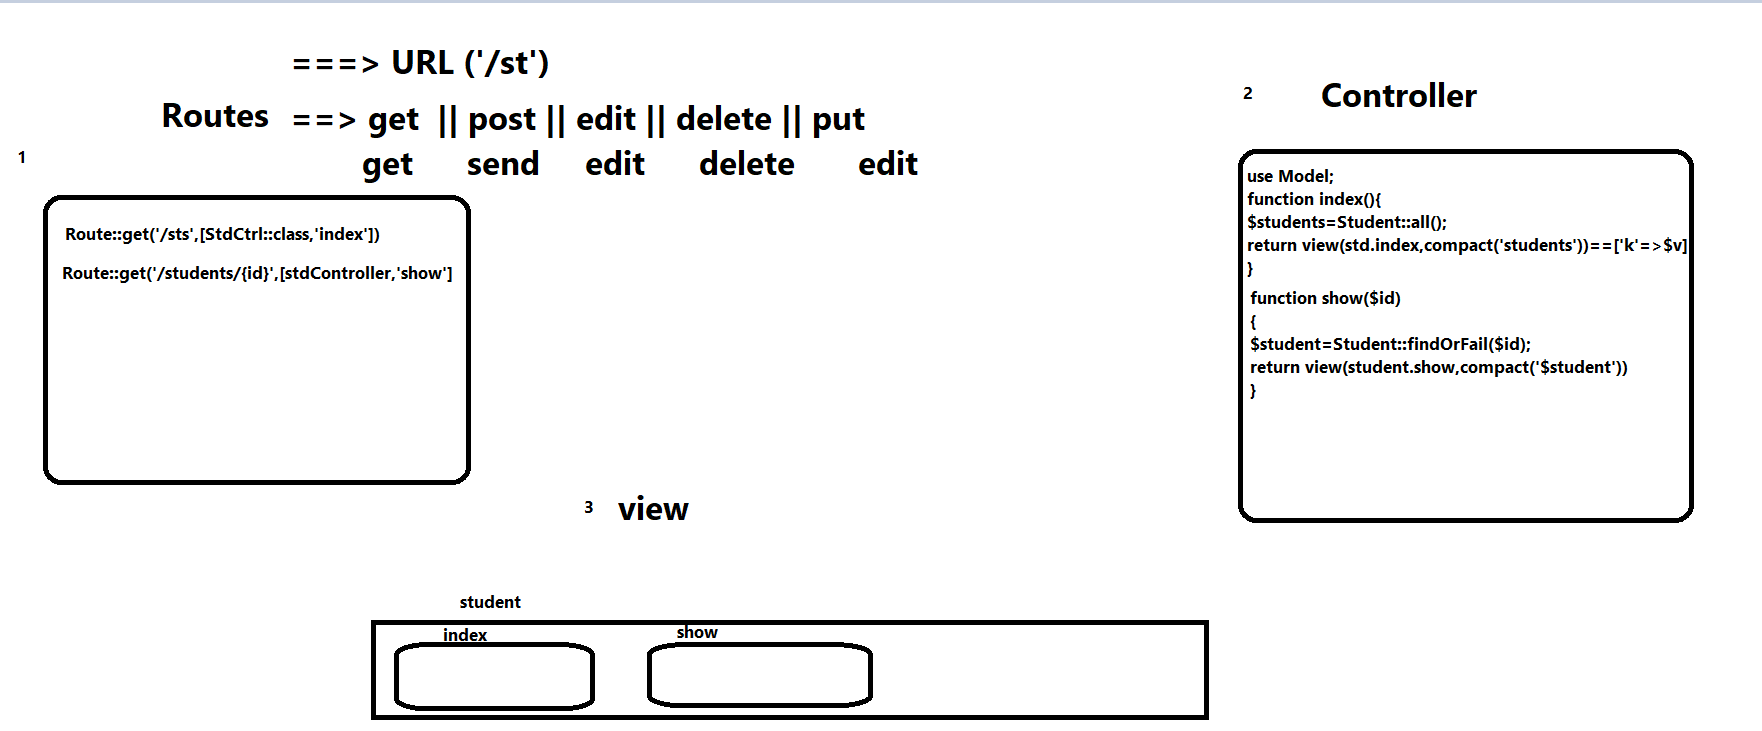
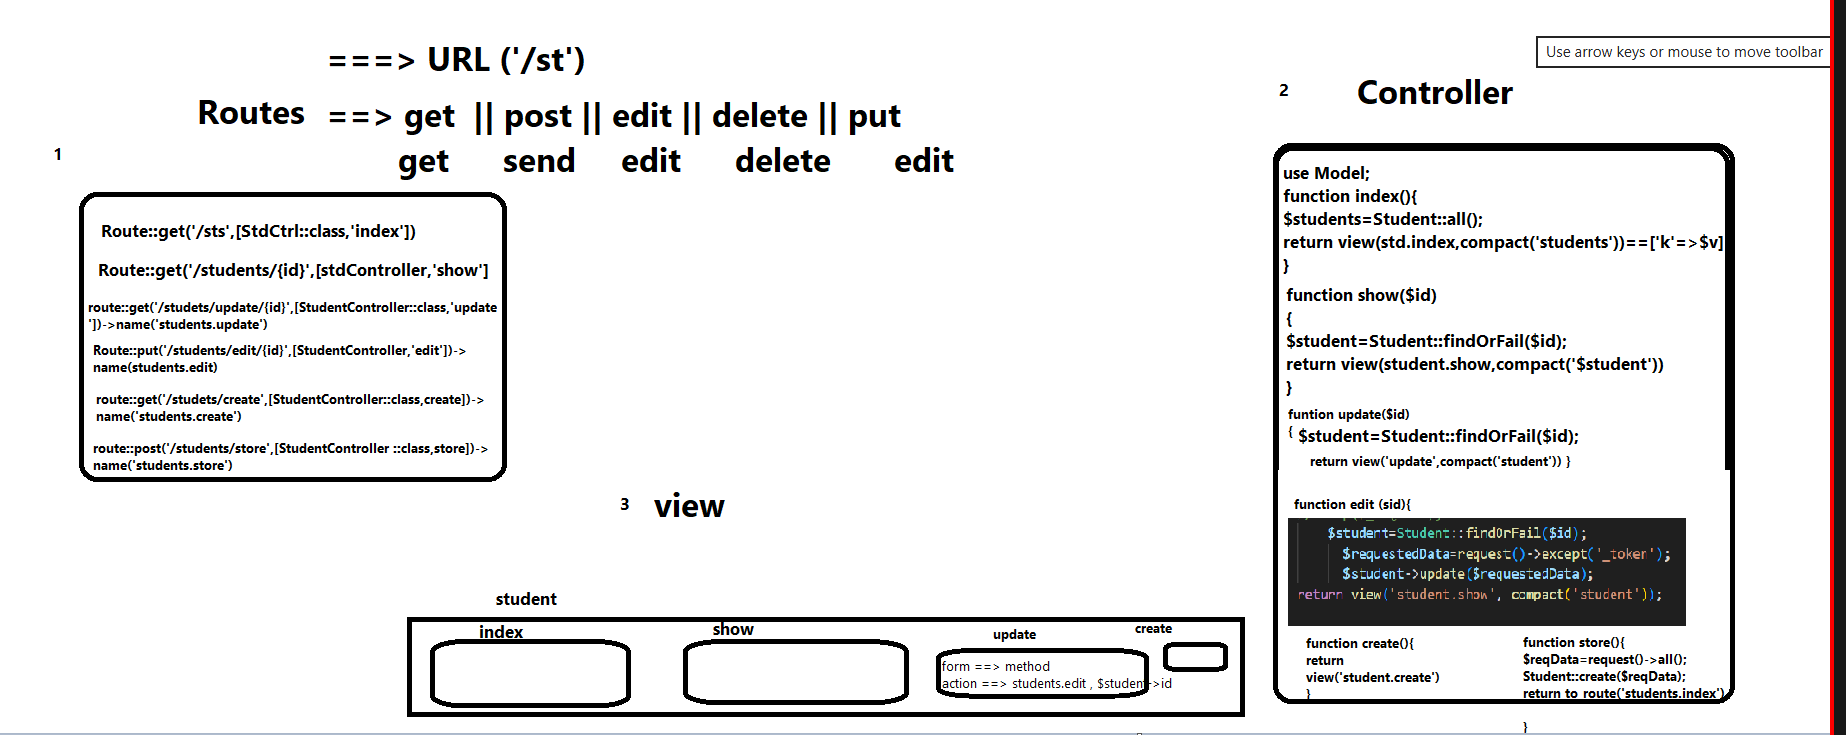
feat:cruds part 2

diff --git a/laravel/demo/resources/views/student/update.blade.php b/laravel/demo/resources/views/student/update.blade.php
@@ -1,0 +1,40 @@
+<!DOCTYPE html>
+<html lang="en">
+<head>
+    <meta charset="UTF-8">
+    <meta name="viewport" content="width=device-width, initial-scale=1.0">
+    <meta http-equiv="X-UA-Compatible" content="ie=edge">
+      {{-- bootstrap --}}
+    <link href="https://cdn.jsdelivr.net/npm/bootstrap@5.0.2/dist/css/bootstrap.min.css" rel="stylesheet"
+        integrity="sha384-EVSTQN3/azprG1Anm3QDgpJLIm9Nao0Yz1ztcQTwFspd3yD65VohhpuuCOmLASjC" crossorigin="anonymous">
+    <title>create Student</title>
+</head>
+<body>
+    {{-- @dump($student) --}}
+<h1 class="text-info text-center m-5 text-capitalize">Update <span class="text-danger">{{ $student->name }} </span>Profile </h1>
+
+<form method="POST" action="{{ route('students.edit',$student->id) }}" class="rounded w-75 mx-auto my-5 border p-5" >
+ @csrf
+ @method('put')
+    <div class="mb-3">
+    <label for="exampleInputName1" class="form-label">Name </label>
+    <input  value="{{ $student->name }}" name="name" type="text" class="form-control" id="exampleInputName1" >
+  </div>
+  <div class="mb-3">
+    <label for="exampleInputEmail1" class="form-label">Email </label>
+    <input  value="{{ $student->email }}"  name="email" type="email" class="form-control" id="exampleInputEmail1" aria-describedby="emailHelp">
+  </div>
+  <div class="mb-3">
+    <label for="exampleInputGender1" class="form-label">Gender </label>
+    <input value="{{ $student->gender }}"   name="gender" type="text" class="form-control" id="exampleInputGender1" >
+  </div>
+
+
+  <button type="submit" class="btn btn-primary">Edit</button>
+</form>
+
+    <script src="https://cdn.jsdelivr.net/npm/bootstrap@5.0.2/dist/js/bootstrap.bundle.min.js"
+        integrity="sha384-MrcW6ZMFYlzcLA8Nl+NtUVF0sA7MsXsP1UyJoMp4YLEuNSfAP+JcXn/tWtIaxVXM" crossorigin="anonymous">
+    </script>
+</body>
+</html>

diff --git a/laravel/demo/resources/views/student/create.blade.php b/laravel/demo/resources/views/student/create.blade.php
@@ -1,0 +1,39 @@
+<!DOCTYPE html>
+<html lang="en">
+<head>
+    <meta charset="UTF-8">
+    <meta name="viewport" content="width=device-width, initial-scale=1.0">
+    <meta http-equiv="X-UA-Compatible" content="ie=edge">
+      {{-- bootstrap --}}
+    <link href="https://cdn.jsdelivr.net/npm/bootstrap@5.0.2/dist/css/bootstrap.min.css" rel="stylesheet"
+        integrity="sha384-EVSTQN3/azprG1Anm3QDgpJLIm9Nao0Yz1ztcQTwFspd3yD65VohhpuuCOmLASjC" crossorigin="anonymous">
+    <title>create Student</title>
+</head>
+<body>
+<h1 class="text-info text-center m-5">Create New Student </h1>
+
+<form method="POST" action="{{ route('students.store') }}" class="rounded w-75 mx-auto my-5 border p-5" >
+ @csrf
+    <div class="mb-3">
+    <label for="exampleInputName1" class="form-label">Name </label>
+    <input  name="name" type="text" class="form-control" id="exampleInputName1" >
+  </div>
+  <div class="mb-3">
+    <label for="exampleInputEmail1" class="form-label">Email </label>
+    <input  name="email" type="email" class="form-control" id="exampleInputEmail1" aria-describedby="emailHelp">
+    <div id="emailHelp" class="form-text">We'll never share your email with anyone else.</div>
+  </div>
+  <div class="mb-3">
+    <label for="exampleInputGender1" class="form-label">Gender </label>
+    <input  name="gender" type="text" class="form-control" id="exampleInputGender1" >
+  </div>
+
+
+  <button type="submit" class="btn btn-primary">Add New Student</button>
+</form>
+
+    <script src="https://cdn.jsdelivr.net/npm/bootstrap@5.0.2/dist/js/bootstrap.bundle.min.js"
+        integrity="sha384-MrcW6ZMFYlzcLA8Nl+NtUVF0sA7MsXsP1UyJoMp4YLEuNSfAP+JcXn/tWtIaxVXM" crossorigin="anonymous">
+    </script>
+</body>
+</html>

diff --git a/laravel/demo/resources/views/student/index.blade.php b/laravel/demo/resources/views/student/index.blade.php
@@ -13,8 +13,16 @@
 </head>
 
 <body>
-    <h1 class="text-info text-center m-5  ">All Studenta Data</h1>
+ <div class="d-flex justify-content-around">
+       <h1 class="text-success text-center m-5  ">All Studenta Data</h1>
     {{-- @dump($students) --}}
+
+    <div class="m-5">
+            <a class="text-decoration-none" href="{{ route('students.create' ) }}">
+               <button class="btn btn-info">Create New Student</button></a>
+
+    </div>
+ </div>
     <table class="table table-bordered w-75 m-auto p-1 text-center">
         <thead>
 
@@ -35,15 +43,22 @@
     <td>{{ $student->name }}</td>
     <td>{{ $student->email}}</td>
     <td>{{ $student->gender }}</td>
-      <td class="p-2">
-             <a class="text-decoration-none" href="{{ route('students.show',$student->id ) }}">
+      <td class="p-2 d-flex justify-content-around">
+          <div>
+               <a class="text-decoration-none" href="{{ route('students.show',$student->id ) }}">
                <button class="btn btn-warning">View</button></a>
 
+          </div>
                <form action="{{ route('students.destroy',$student->id ) }}" method="post">
                  @method('delete')
                  @csrf
                  <button class="btn btn-danger">Delete</button>
                </form>
+<div>
+
+                 <a class="text-decoration-none" href="{{ route('students.update',$student->id ) }}">
+               <button class="btn btn-info">Update</button></a>
+</div>
             </td>
 </tr>
 

diff --git a/laravel/demo/app/Http/Controllers/StudentController.php b/laravel/demo/app/Http/Controllers/StudentController.php
@@ -54,4 +54,42 @@ class StudentController extends Controller
     return to_route('students.index');
 
     }
+
+    function create()
+    {
+        return view('student.create');
+    }
+
+    function store()
+    {
+
+        // dump($_REQUEST);
+        // dump(request()->all());
+        $requestedData=request()->except('_token');
+        // dump($requestedData);
+        Student::create($requestedData);
+        return to_route('students.index');
+
+    }
+
+    function update($id){
+    $student=Student::findOrFail($id);
+// old data ==>  associative array ==> ['key'=>value]
+// old data ==>  associative array ==> ['key'=>$student]
+    return view('student.update',compact('student'));
+    // return view('student.update',['student'=>$student]);
+
+
+    }
+
+    function edit($id)
+    {
+
+        // dump($_REQUEST);
+            $student=Student::findOrFail($id);
+              $requestedData=request()->except('_token');
+              $student->update($requestedData);
+        return view('student.show', compact('student'));
+
+    }
 }

diff --git a/laravel/demo/routes/web.php b/laravel/demo/routes/web.php
@@ -29,6 +29,14 @@ Route::get('/', function () {
 //
 Route::get('/students',[StudentController::class,'index'])->name('students.index');
 
+Route::get('/students/update/{id}',[StudentController::class,'update'])->name('students.update');
+Route::put('/students/edit/{id}',[StudentController::class,'edit'])->name('students.edit');
+
 Route::get('/students/{id}',[StudentController::class,'show'])->name('students.show');
 
 Route::delete('/students/{id}',[StudentController::class,'destroy'])->name('students.destroy');
+// show form
+Route::get('/studets/create',[StudentController::class,'create'])->name('students.create');
+Route::post('students/store',[StudentController::class,'store'])->name('students.store');
+
+

diff --git a/laravel/demo/app/Models/Student.php b/laravel/demo/app/Models/Student.php
@@ -10,4 +10,11 @@ class Student extends Model
     // protected $table='myStudents';
     // primaryKey ==> id  ==> myId
     // protected $primaryKey="myID";
+
+    protected $fillable=['name','email','gender']; // permited data
+    // protected $guarded=['token']; // forbidden
+    // protected $timestamps=false;
+    public $timestamps = false;
+    // created_at
+    // updated_at
 }
